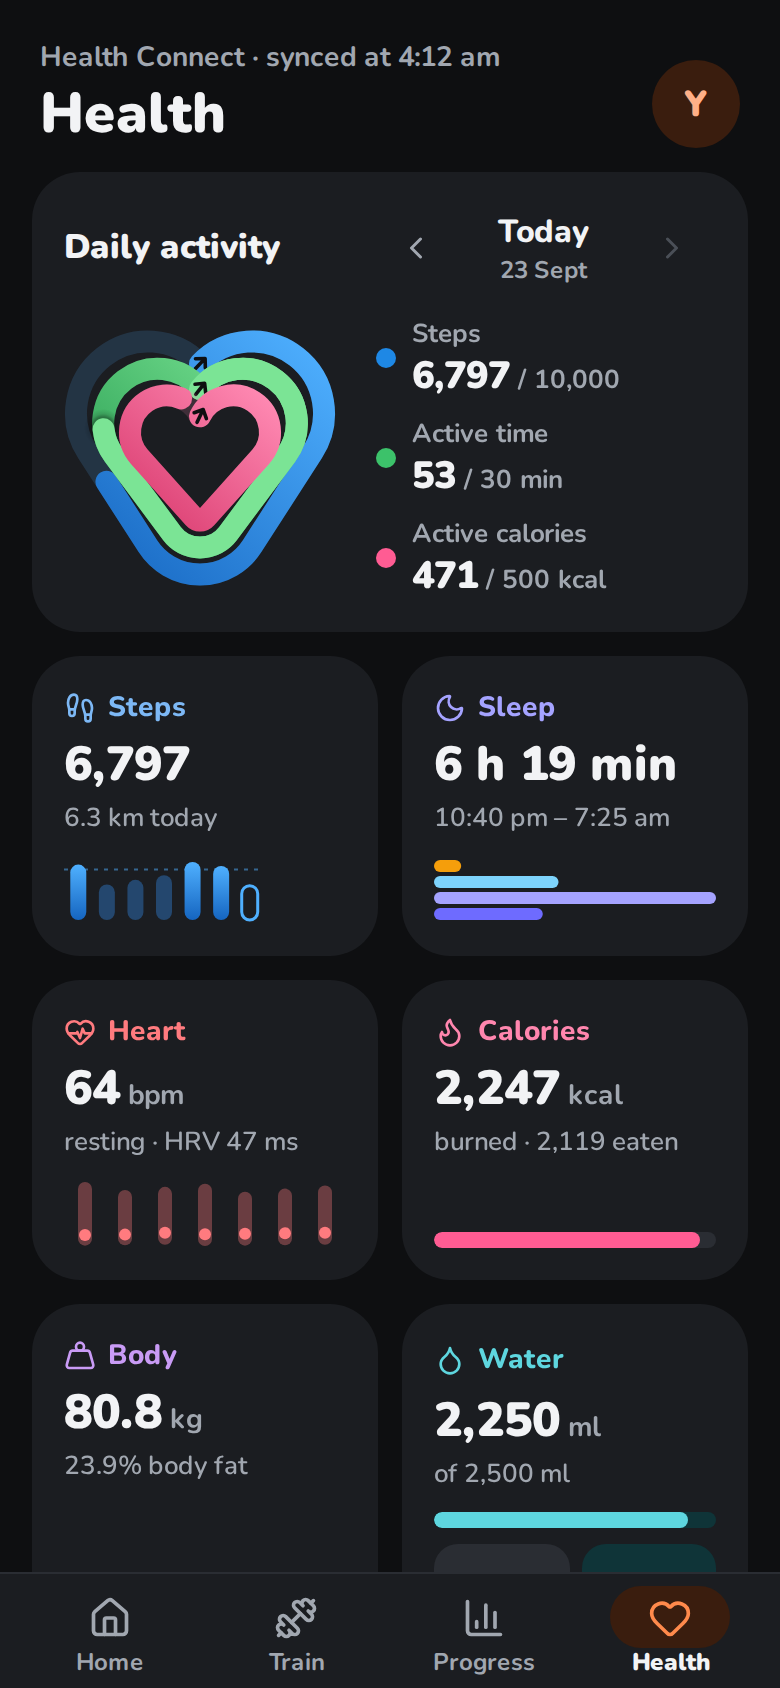
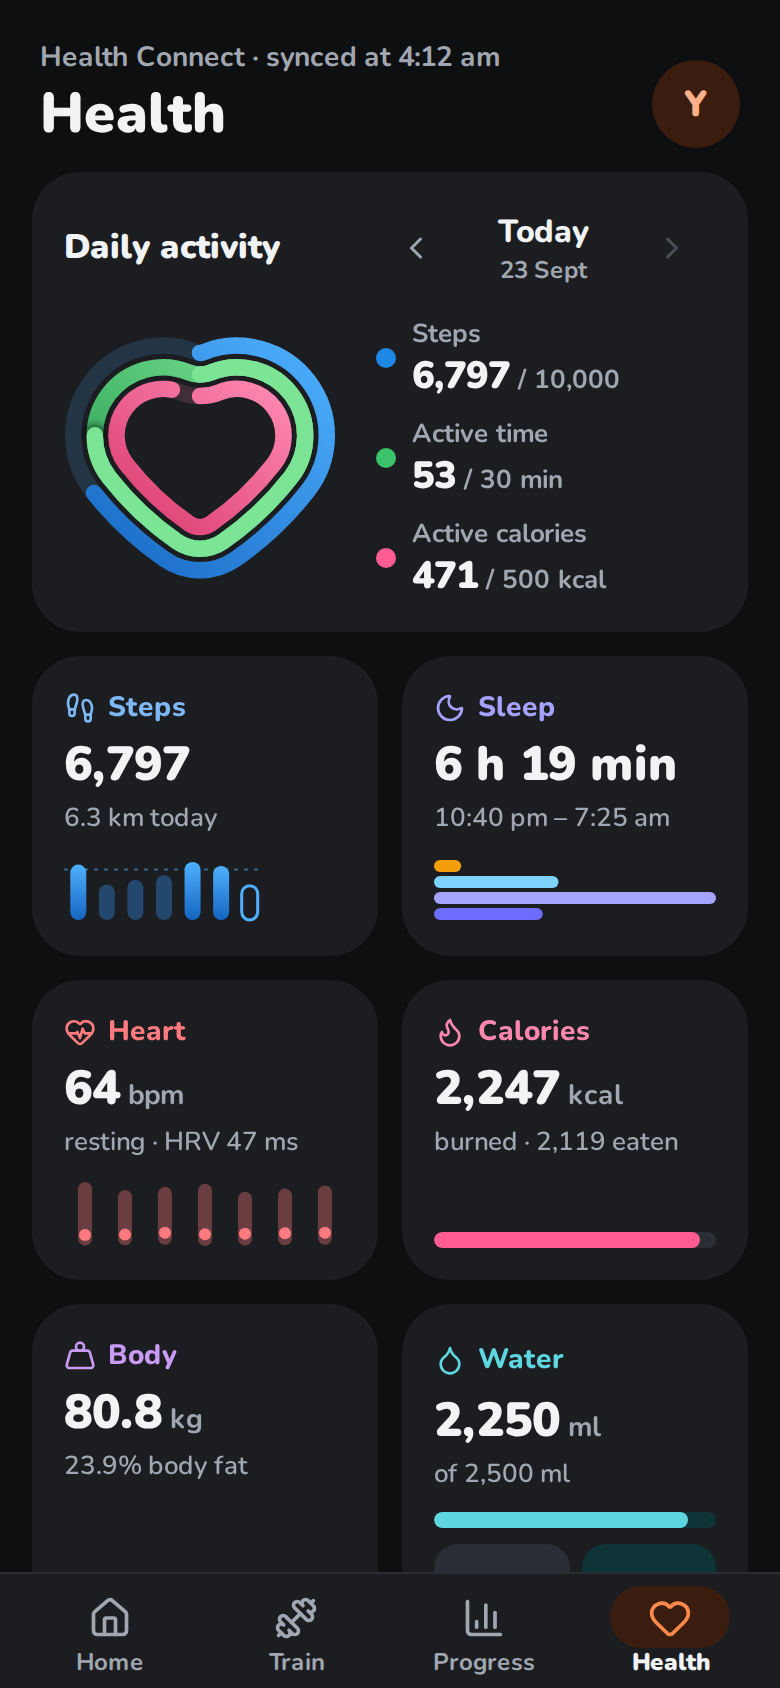
Activity rings: Samsung Health's heart, measured; no start arrows
The hearts are now drawn from proportions measured off Samsung Health's
daily activity heart (lib/heart.ts): the outer edge is two lobes crossing
at the dip, long gently curved sides and a round point, and each ring's
line is that edge moved in exactly, arc by arc, with the dip's corner
rounded by an arc of the distance moved in. So the gaps between the rings
are even all the way round, the inner rings' dips come out rounder and
their points sharper, as in Samsung's, and the ring width and gaps follow
Samsung's proportions. Overlaid on a screenshot of Samsung's, the rings
line up to about a pixel. The start arrows are gone.

Tests check each ring is the same step inside the last at every point.

Claude-Session: https://claude.ai/code/session_01W3N7J58zfpKW6Nw14M15Sd

Changed region(s): [[0.0615, 0.1848, 0.4308, 0.3697]]

diff --git a/src/lib/heart.ts b/src/lib/heart.ts
@@ -1,96 +1,109 @@
-/* The activity rings' heart (ActivityRings.tsx): three hearts one inside the other, as the rings used to be circles.
- * A heart here is two round lobes that cross at the top, making the dip, and straight sides down to a rounded point.
- * Each ring in from the last is `step` further in at the top, the sides and the point, so the gaps between them stay
- * even there; its lobes also move a little in and down as they shrink, so they still cross, and the dip stays a
- * clear V on the inner hearts rather than flattening out. Each path starts at the dip and runs clockwise, as the
- * rings fill. */
+/* The activity rings' heart (ActivityRings.tsx), after Samsung Health's daily activity heart: three rings one inside
+ * the other, each exactly the same distance in from the last all the way round, so the gaps between them are even.
+ *
+ * The heart's outer edge is drawn with compass and ruler, in proportions measured from Samsung Health's: two round
+ * lobes that cross at the top, making the dip; sides that are long, gentle arcs, each touching its lobe; and a round
+ * point where the sides meet, touching both. A ring's line is that edge moved in: every arc keeps its centre and loses
+ * the distance moved in from its radius, and at the dip, where the edge has a corner, the line rounds it with an arc
+ * of that distance around the corner. So the inner rings' dips come out rounder, and their points sharper, as in
+ * Samsung's. Each ring's path starts at the dip, in the middle, and runs clockwise, as the rings fill.
+ */
 
 export interface Pt {
   x: number;
   y: number;
 }
 
-type Seg = { kind: "arc"; cx: number; cy: number; r: number; from: number; sweep: number } | { kind: "line"; a: Pt; b: Pt };
-
 export interface Heart {
   /** SVG path data, from the dip at the top, clockwise. */
   d: string;
   /** Its length, for the point along it. */
   length: number;
-  /** Where it starts: the dip at the top. */
+  /** Where it starts: the dip at the top, in the middle. */
   start: Pt;
-  /** Which way it starts off, in degrees clockwise from pointing right: up and to the right, round the right lobe. */
-  startAngle: number;
   /** The point `frac` (0–1) of the way round from the start. */
   at: (frac: number) => Pt;
 }
 
-/** The outer heart's proportions, of its half-width: how far each lobe's centre is from the middle, how round the
- *  point is, and its height (of its width); and how much of each ring's step goes into moving the lobes in. */
-export const SHAPE = { lobe: 0.42, point: 0.5, height: 0.94, shift: 0.35 };
+/**
+ * The outer edge, of its half-width: how far each lobe's centre is from the middle (its radius is the rest of the
+ * half-width), the radius of the sides and of the point, and the height. Then each ring's width and the step from
+ * one ring's line to the next (the ring and the gap). Measured from Samsung Health's heart, whose edge is 574 px
+ * wide: lobes 208 px round and 78 px either side of the middle, sides 724 px round, the point 150 px round, 513 px
+ * tall; rings 35 px wide, 11 px apart.
+ */
+export const SHAPE = { lobe: 0.2735, side: 2.52, point: 0.52, height: 1.786, ring: 0.122, step: 0.16 };
+export type HeartShape = typeof SHAPE;
 
+/** A circular arc: its centre, radius, the angle it starts at, and how far it turns (positive: clockwise on screen). */
+type Arc = { cx: number; cy: number; r: number; from: number; sweep: number };
 const TAU = Math.PI * 2;
 /** An angle turned clockwise (on screen, y down) from `from` to `to`, in (0, 2π]. */
 const clockwise = (from: number, to: number) => {
   const s = (to - from) % TAU;
   return s <= 0 ? s + TAU : s;
 };
-const onCircle = (cx: number, cy: number, r: number, a: number): Pt => ({ x: cx + r * Math.cos(a), y: cy + r * Math.sin(a) });
+const angle = (p: Pt, c: Pt) => Math.atan2(p.y - c.y, p.x - c.x);
+const onArc = (a: Arc, s: number): Pt => ({ x: a.cx + a.r * Math.cos(a.from + a.sweep * s), y: a.cy + a.r * Math.sin(a.from + a.sweep * s) });
 const r2 = (n: number) => Math.round(n * 100) / 100;
 
-/**
- * Ring `i` (0 outermost) of hearts filling a `box`-sized square: `stroke` wide, `gap` apart. The outer heart's line
- * sits half a stroke (and half a pixel) in from the sides, and is centred top to bottom.
- */
-export function heartRing(box: number, stroke: number, gap: number, i: number, shape = SHAPE): Heart {
-  const c = box / 2, m = stroke / 2 + 0.5, w = c - m, h = 2 * w * shape.height, top0 = c - h / 2;
-  const inset = i * (stroke + gap), k = shape.shift * inset;
-  // The outer lobes are centred a0 either side of the middle, radius r0, touching the sides and the top. Ring i's
-  // move k in and down and shrink by inset − k: still touching its own sides and top, `inset` in.
-  const a0 = shape.lobe * w, r0 = w - a0;
-  const a = a0 - k, r = r0 - (inset - k), cy = top0 + r0 + k;
-  // The point: a circle touching the bottom, `inset` up, smaller by as much (never below half a pixel).
-  const t = Math.max(0.5, shape.point * w - inset), ty = top0 + h - inset - t;
-  const lobe = { x: c + a, y: cy }, tip = { x: c, y: ty };
-  // The dip, where the lobes cross on the middle line.
-  const dy = Math.sqrt(Math.max(0, r * r - a * a)), start = { x: c, y: cy - dy };
-  // The right side: the line touching both the lobe and the point's circle, on the outside.
-  const vx = tip.x - lobe.x, vy = tip.y - lobe.y, len = Math.hypot(vx, vy), th = Math.acos(Math.max(-1, Math.min(1, (r - t) / len)));
-  const rot = (s: number) => ({ x: (vx * Math.cos(s * th) - vy * Math.sin(s * th)) / len, y: (vx * Math.sin(s * th) + vy * Math.cos(s * th)) / len });
-  const n = [rot(1), rot(-1)].sort((u, v) => v.x - u.x)[0]; // pointing out to the right
-  const side = Math.atan2(n.y, n.x), fromDip = Math.atan2(start.y - lobe.y, start.x - lobe.x);
-  const pa = { x: lobe.x + r * n.x, y: lobe.y + r * n.y }, pb = { x: tip.x + t * n.x, y: tip.y + t * n.y };
-  const mirror = (p: Pt): Pt => ({ x: 2 * c - p.x, y: p.y });
-  const segs: Seg[] = [
-    { kind: "arc", cx: lobe.x, cy: lobe.y, r, from: fromDip, sweep: clockwise(fromDip, side) },
-    { kind: "line", a: pa, b: pb },
-    { kind: "arc", cx: tip.x, cy: tip.y, r: t, from: side, sweep: clockwise(side, Math.PI - side) },
-    { kind: "line", a: mirror(pb), b: mirror(pa) },
-    { kind: "arc", cx: 2 * c - lobe.x, cy: lobe.y, r, from: Math.PI - side, sweep: clockwise(Math.PI - side, Math.PI - fromDip) },
-  ];
-  const lengths = segs.map((s) => (s.kind === "arc" ? s.sweep * s.r : Math.hypot(s.b.x - s.a.x, s.b.y - s.a.y)));
-  const length = lengths.reduce((x, y) => x + y, 0);
-  const end = (s: Seg): Pt => (s.kind === "arc" ? onCircle(s.cx, s.cy, s.r, s.from + s.sweep) : s.b);
+/** Where two circles cross: the one of the two with the smaller x. */
+function crossing(p: Pt, rp: number, q: Pt, rq: number): Pt {
+  const dx = q.x - p.x, dy = q.y - p.y, d = Math.hypot(dx, dy);
+  const along = (rp * rp - rq * rq + d * d) / (2 * d), off = Math.sqrt(Math.max(0, rp * rp - along * along));
+  const mx = p.x + (along * dx) / d, my = p.y + (along * dy) / d;
+  const a = { x: mx + (off * dy) / d, y: my - (off * dx) / d }, b = { x: mx - (off * dy) / d, y: my + (off * dx) / d };
+  return a.x < b.x ? a : b;
+}
+
+/** A closed path through arcs, from `start`: its SVG data, length and the point along it. */
+function path(start: Pt, arcs: Arc[]): Heart {
   const d =
     `M${r2(start.x)} ${r2(start.y)}` +
-    segs.map((s) => {
-      const e = end(s);
-      return s.kind === "line" ? `L${r2(e.x)} ${r2(e.y)}` : `A${r2(s.r)} ${r2(s.r)} 0 ${s.sweep > Math.PI ? 1 : 0} 1 ${r2(e.x)} ${r2(e.y)}`;
-    }).join("") +
+    arcs
+      .map((q) => {
+        const e = onArc(q, 1);
+        return `A${r2(q.r)} ${r2(q.r)} 0 ${Math.abs(q.sweep) > Math.PI ? 1 : 0} ${q.sweep > 0 ? 1 : 0} ${r2(e.x)} ${r2(e.y)}`;
+      })
+      .join("") +
     "Z";
+  const lengths = arcs.map((q) => q.r * Math.abs(q.sweep)), length = lengths.reduce((x, y) => x + y, 0);
   const at = (frac: number): Pt => {
     let left = Math.min(1, Math.max(0, frac)) * length;
-    for (let j = 0; j < segs.length; j++) {
-      const s = segs[j];
-      if (left <= lengths[j] || j === segs.length - 1) {
-        const p = lengths[j] ? Math.min(1, left / lengths[j]) : 0;
-        return s.kind === "arc" ? onCircle(s.cx, s.cy, s.r, s.from + s.sweep * p) : { x: s.a.x + (s.b.x - s.a.x) * p, y: s.a.y + (s.b.y - s.a.y) * p };
-      }
+    for (let j = 0; j < arcs.length; j++) {
+      if (left <= lengths[j] || j === arcs.length - 1) return onArc(arcs[j], lengths[j] ? Math.min(1, left / lengths[j]) : 0);
       left -= lengths[j];
     }
     return start;
   };
-  // Clockwise round the right lobe from the dip: the radius there, turned a quarter.
-  const startAngle = ((fromDip + Math.PI / 2) * 180) / Math.PI;
-  return { d, length, start, startAngle, at };
+  return { d, length, start, at };
+}
+
+/**
+ * The three rings of a heart filling a `box`-sized square (outermost first), and how wide each ring's line is. The
+ * outer edge comes half a pixel short of the sides, centred top to bottom.
+ */
+export function heartRings(box: number, shape: HeartShape = SHAPE): { stroke: number; rings: Heart[] } {
+  const c = box / 2, w = c - 0.5, h = shape.height * w, top = c - h / 2;
+  const a = shape.lobe * w, r = w - a, R = shape.side * w, t = shape.point * w;
+  const lobe = { x: c + a, y: top + r }, tip = { x: c, y: top + h - t };
+  const corner = { x: c, y: lobe.y - Math.sqrt(r * r - a * a) }; // the dip, where the lobes cross
+  // The right side: a big circle holding both the lobe and the point inside it, touching each, centred out to the
+  // left so it curves out to the right.
+  const side = crossing(lobe, R - r, tip, R - t);
+  const mirror = (p: Pt): Pt => ({ x: 2 * c - p.x, y: p.y });
+  const toLobe = angle(lobe, corner), dipOnLobe = angle(corner, lobe), lobeToSide = angle(lobe, side), tipFromSide = angle(tip, side);
+  const ring = (inset: number): Heart =>
+    path({ x: c, y: corner.y + inset }, [
+      // Round the corner at the dip, from the middle out to the right lobe: anticlockwise, as it curves the other way.
+      { cx: corner.x, cy: corner.y, r: inset, from: Math.PI / 2, sweep: -(Math.PI / 2 - toLobe) },
+      { cx: lobe.x, cy: lobe.y, r: r - inset, from: dipOnLobe, sweep: clockwise(dipOnLobe, lobeToSide) },
+      { cx: side.x, cy: side.y, r: R - inset, from: lobeToSide, sweep: clockwise(lobeToSide, tipFromSide) },
+      { cx: tip.x, cy: tip.y, r: Math.max(0.5, t - inset), from: tipFromSide, sweep: clockwise(tipFromSide, Math.PI - tipFromSide) },
+      { cx: mirror(side).x, cy: side.y, r: R - inset, from: Math.PI - tipFromSide, sweep: clockwise(Math.PI - tipFromSide, Math.PI - lobeToSide) },
+      { cx: mirror(lobe).x, cy: lobe.y, r: r - inset, from: Math.PI - lobeToSide, sweep: clockwise(Math.PI - lobeToSide, Math.PI - dipOnLobe) },
+      { cx: corner.x, cy: corner.y, r: inset, from: Math.PI - toLobe, sweep: -(Math.PI / 2 - toLobe) },
+    ]);
+  const stroke = shape.ring * w, step = shape.step * w;
+  return { stroke, rings: [0, 1, 2].map((i) => ring(stroke / 2 + i * step)) };
 }

diff --git a/src/components/ds/ActivityRings.tsx b/src/components/ds/ActivityRings.tsx
@@ -2,7 +2,7 @@
 import { useId } from "react";
 import { useOnScreen } from "@/hooks/useOnScreen";
 import { cx } from "@/lib/cx";
-import { heartRing, type Heart } from "@/lib/heart";
+import { heartRings } from "@/lib/heart";
 
 export type RingTone = "steps" | "active" | "energy";
 export interface RingValue {
@@ -11,14 +11,10 @@ export interface RingValue {
   goal: number;
 }
 
-/** Box, stroke and the gap between the hearts for each place the rings show (ActivityRings spec). */
-const SIZES = {
-  home: { box: 124, stroke: 10, gap: 2.5, arrows: true },
-  health: { box: 136, stroke: 11, gap: 2.5, arrows: true },
-  inline: { box: 58, stroke: 5, gap: 1.5, arrows: false },
-} as const;
-/** Each size's three hearts, worked out once. */
-const HEARTS = Object.fromEntries(Object.entries(SIZES).map(([k, v]) => [k, [0, 1, 2].map((i) => heartRing(v.box, v.stroke, v.gap, i))])) as Record<keyof typeof SIZES, Heart[]>;
+/** The box each place the rings show draws them in (ActivityRings spec); the rings' width and gaps follow from it. */
+const SIZES = { home: 124, health: 136, inline: 58 } as const;
+/** Each size's three rings, worked out once. */
+const HEARTS = Object.fromEntries(Object.entries(SIZES).map(([k, box]) => [k, heartRings(box)])) as Record<keyof typeof SIZES, ReturnType<typeof heartRings>>;
 /** How far a second lap's shadow reaches past its round end. */
 const TIP_FADE = 4;
 
@@ -34,10 +30,10 @@ export const ringPct = (value: number, goal: number) => (goal > 0 ? Math.max(0, 
 export function ActivityRings({ rings, size = "home", label }: { rings: RingValue[]; size?: keyof typeof SIZES; label: string }) {
   const id = useId().replace(/:/g, "");
   const [ref, on] = useOnScreen<SVGSVGElement>();
-  const s = SIZES[size], hearts = HEARTS[size];
-  const tipR = s.stroke / 2 + TIP_FADE, edge = s.stroke / 2 / tipR;
+  const box = SIZES[size], { stroke, rings: hearts } = HEARTS[size];
+  const tipR = stroke / 2 + TIP_FADE, edge = stroke / 2 / tipR;
   return (
-    <svg ref={ref} className={cx("rings", on && "in")} width={s.box} height={s.box} viewBox={`0 0 ${s.box} ${s.box}`} role="img" aria-label={label}>
+    <svg ref={ref} className={cx("rings", on && "in")} width={box} height={box} viewBox={`0 0 ${box} ${box}`} role="img" aria-label={label}>
       <defs>
         {/* A second lap's shadow: dark at the edge of its round end, fading out over 4px, like the blur it replaces. */}
         <radialGradient id={`${id}tip`}>
@@ -53,19 +49,18 @@ export function ActivityRings({ rings, size = "home", label }: { rings: RingValu
         ))}
       </defs>
       {rings.map((r, i) => {
-        const h = hearts[i], pct = ringPct(r.value, r.goal), { x, y } = h.start;
-        const k = s.box / 124; // the start arrow scales with the ring's size
+        const h = hearts[i], pct = ringPct(r.value, r.goal);
         const tip = pct > 100 ? h.at((pct - 100) / 100) : null;
         return (
           <g key={r.tone}>
-            <path d={h.d} fill="none" strokeWidth={s.stroke} strokeLinejoin="round" className="ring-track" style={{ stroke: `var(--${r.tone}-end)` }} />
+            <path d={h.d} fill="none" strokeWidth={stroke} strokeLinejoin="round" className="ring-track" style={{ stroke: `var(--${r.tone}-end)` }} />
             {pct > 0 ? (
               <path
                 className="ring-arc"
                 d={h.d}
                 fill="none"
                 stroke={`url(#${id}${r.tone})`}
-                strokeWidth={s.stroke}
+                strokeWidth={stroke}
                 strokeLinecap="round"
                 strokeLinejoin="round"
                 pathLength={100}
@@ -83,24 +78,12 @@ export function ActivityRings({ rings, size = "home", label }: { rings: RingValu
                 className="ring-arc"
                 d={h.d}
                 fill="none"
-                strokeWidth={s.stroke}
+                strokeWidth={stroke}
                 strokeLinecap="round"
                 strokeLinejoin="round"
                 pathLength={100}
                 strokeDasharray={`${(pct - 100).toFixed(1)} 100`}
                 style={{ stroke: `var(--${r.tone}-end)` }}
-              />
-            ) : null}
-            {s.arrows ? (
-              // Where each ring starts, in the dip at the top, and the way it fills: up and round the right lobe.
-              <path
-                className="ring-arrow"
-                transform={`rotate(${h.startAngle.toFixed(1)} ${x.toFixed(1)} ${y.toFixed(1)})`}
-                d={`M${(x - 3.1 * k).toFixed(1)} ${y.toFixed(1)}h${(6.2 * k).toFixed(1)}M${(x + 0.3 * k).toFixed(1)} ${(y - 3.1 * k).toFixed(1)}l${(3.1 * k).toFixed(1)} ${(3.1 * k).toFixed(1)}-${(3.1 * k).toFixed(1)} ${(3.1 * k).toFixed(1)}`}
-                fill="none"
-                strokeWidth={1.8}
-                strokeLinecap="round"
-                strokeLinejoin="round"
               />
             ) : null}
           </g>

diff --git a/tests/unit/heart.test.ts b/tests/unit/heart.test.ts
@@ -1,56 +1,51 @@
 import { describe, expect, it } from "vitest";
-import { heartRing } from "@/lib/heart";
+import { heartRings, SHAPE } from "@/lib/heart";
 
-// The three places the rings show (ActivityRings.tsx's SIZES).
-const SIZES = [
-  { box: 124, stroke: 10, gap: 2.5 },
-  { box: 136, stroke: 11, gap: 2.5 },
-  { box: 58, stroke: 5, gap: 1.5 },
-];
-
-/** The heart's outline, as many points round it. */
-const outline = (h: ReturnType<typeof heartRing>) => Array.from({ length: 2001 }, (_, n) => h.at(n / 2000));
-const extent = (pts: { x: number; y: number }[]) => ({
-  left: Math.min(...pts.map((p) => p.x)),
-  right: Math.max(...pts.map((p) => p.x)),
-  top: Math.min(...pts.map((p) => p.y)),
-  bottom: Math.max(...pts.map((p) => p.y)),
-});
+type P = { x: number; y: number };
+/** A ring's line, as many points round it. */
+const outline = (h: { at: (f: number) => P }, n = 1200) => Array.from({ length: n + 1 }, (_, k) => h.at(k / n));
+/** How far a point is from a line through `pts`. */
+function distance(p: P, pts: P[]): number {
+  let best = Infinity;
+  for (let k = 1; k < pts.length; k++) {
+    const a = pts[k - 1], b = pts[k], dx = b.x - a.x, dy = b.y - a.y, len = dx * dx + dy * dy;
+    const s = len ? Math.max(0, Math.min(1, ((p.x - a.x) * dx + (p.y - a.y) * dy) / len)) : 0;
+    best = Math.min(best, Math.hypot(p.x - a.x - s * dx, p.y - a.y - s * dy));
+  }
+  return best;
+}
 
 describe("the rings' hearts", () => {
-  for (const { box, stroke, gap } of SIZES) {
-    const hearts = [0, 1, 2].map((i) => heartRing(box, stroke, gap, i)), step = stroke + gap;
+  // The three places the rings show (ActivityRings.tsx's SIZES).
+  for (const box of [124, 136, 58]) {
+    const { stroke, rings } = heartRings(box), w = box / 2 - 0.5, step = SHAPE.step * w;
 
-    it(`at ${box}px: fits the box, the outer line half a stroke in from its sides`, () => {
-      const e = extent(outline(hearts[0]));
-      expect(e.left).toBeCloseTo(stroke / 2 + 0.5, 1);
-      expect(e.right).toBeCloseTo(box - stroke / 2 - 0.5, 1);
-      expect(e.top).toBeGreaterThanOrEqual(stroke / 2);
-      expect(e.bottom).toBeLessThanOrEqual(box - stroke / 2);
+    it(`at ${box}px: the outer ring's edge fits the box, half a pixel in from the sides`, () => {
+      const xs = outline(rings[0]).map((p) => p.x), ys = outline(rings[0]).map((p) => p.y);
+      expect(Math.min(...xs) - stroke / 2).toBeCloseTo(0.5, 1);
+      expect(Math.max(...xs) + stroke / 2).toBeCloseTo(box - 0.5, 1);
+      expect(Math.min(...ys) - stroke / 2).toBeGreaterThan(0);
+      expect(Math.max(...ys) + stroke / 2).toBeLessThan(box);
     });
 
-    it(`at ${box}px: each heart sits a step inside the last at the top, the sides and the point`, () => {
+    it(`at ${box}px: each ring is the same step inside the last all the way round, so the gaps are even`, () => {
       for (const i of [1, 2]) {
-        const outer = extent(outline(hearts[i - 1])), inner = extent(outline(hearts[i]));
-        expect(inner.left - outer.left).toBeCloseTo(step, 1);
-        expect(outer.right - inner.right).toBeCloseTo(step, 1);
-        expect(inner.top - outer.top).toBeCloseTo(step, 1);
-        expect(outer.bottom - inner.bottom).toBeCloseTo(step, 1);
+        const outer = outline(rings[i - 1], 1600), gaps = outline(rings[i], 300).map((p) => distance(p, outer));
+        expect(Math.min(...gaps)).toBeGreaterThan(step - 0.05);
+        expect(Math.max(...gaps)).toBeLessThan(step + 0.05);
       }
+      // And the gap between the rings' edges is a gap, not an overlap.
+      expect(step - stroke).toBeGreaterThan(0);
     });
 
-    it(`at ${box}px: starts in the dip on the middle line, heading up and right, and goes all the way round`, () => {
-      for (const [i, h] of hearts.entries()) {
+    it(`at ${box}px: each ring starts at the dip, in the middle, and goes all the way round`, () => {
+      for (const h of rings) {
         expect(h.start.x).toBeCloseTo(box / 2, 5);
-        // A dip: lower than the tops of the lobes either side of it.
-        expect(h.start.y).toBeGreaterThan(extent(outline(h)).top + 1);
-        expect(h.startAngle).toBeLessThan(0);
-        expect(h.startAngle).toBeGreaterThan(-90);
+        const top = Math.min(...outline(h).map((p) => p.y));
+        expect(h.start.y).toBeGreaterThan(top + 0.5); // a dip: below the tops of the lobes
         expect(h.at(1).x).toBeCloseTo(h.start.x, 5);
         expect(h.at(1).y).toBeCloseTo(h.start.y, 5);
         expect(h.d.startsWith("M")).toBe(true);
-        // The next heart in dips lower by more than a stroke, so the rings never touch there.
-        if (i) expect(h.start.y - hearts[i - 1].start.y - stroke).toBeGreaterThanOrEqual(1);
       }
     });
   }

diff --git a/src/styles/ds.css b/src/styles/ds.css
@@ -4,7 +4,6 @@
 /* ---------- ActivityRings ---------- */
 .rings{flex:none;display:block}
 .ring-track{stroke-opacity:.16}
-.ring-arrow{stroke:var(--bg)}
 .ring-leg{display:flex;flex-direction:column;gap:8px;min-width:0;flex:1 1 auto}
 .ring-it{display:flex;align-items:center;gap:8px;color:var(--ink);text-decoration:none;min-height:44px}
 .ring-it .dot{width:10px;height:10px;border-radius:5px;flex:none}
